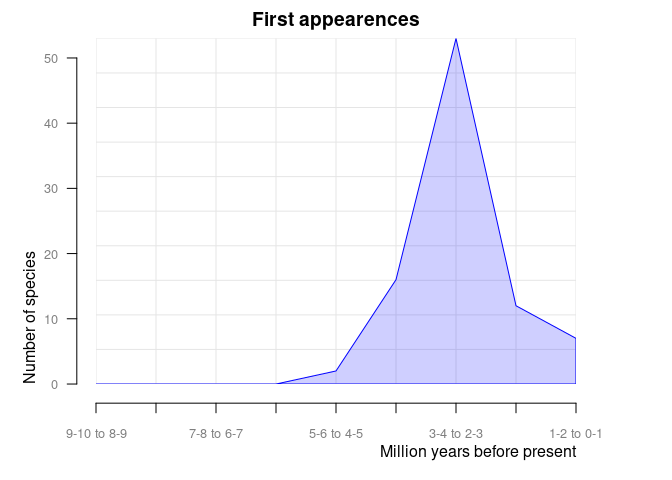
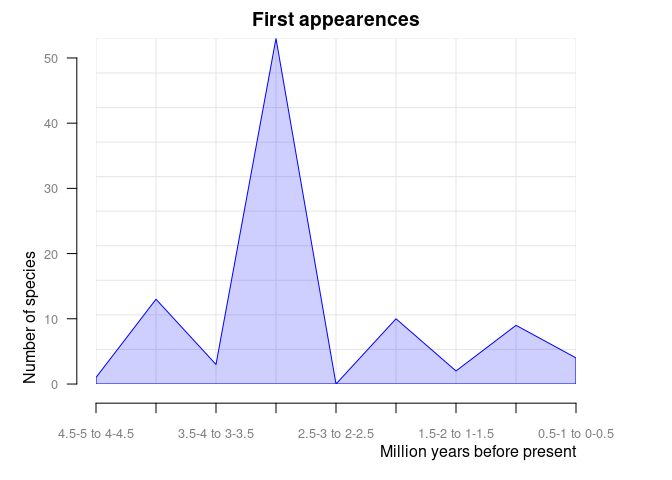
Truncate output in README.md

diff --git a/README.md b/README.md
@@ -46,13 +46,13 @@ library(paleobioDB)
 canidae <- pbdb_occurrences(
   base_name = "canidae",
   interval = "Quaternary",
-  show = c("coords", "classext", "ident"),
+  show = c("coords", "class"),
   vocab = "pbdb",
   limit = "all"
 )
 
 dim(canidae)
-#> [1] 1384   34
+#> [1] 1384   23
 
 head(canidae, 3)
 #>   occurrence_no record_type collection_no   identified_name identified_rank
@@ -67,19 +67,17 @@ head(canidae, 3)
 #> 1 Late Pleistocene  0.781 0.0117         4412  111.5667 22.76667 Chordata
 #> 2             <NA>  1.800 0.3000         2673 -112.4000 35.70000 Chordata
 #> 3             <NA>  1.800 0.3000        52058 -112.4000 35.70000 Chordata
-#>   phylum_no    class class_no     order order_no  family family_no genus
-#> 1     33815 Mammalia    36651 Carnivora    36905 Canidae     41189  Cuon
-#> 2     33815 Mammalia    36651 Carnivora    36905 Canidae     41189 Canis
-#> 3     33815 Mammalia    36651 Carnivora    36905 Canidae     41189 Canis
-#>   genus_no primary_name species_name reid_no species_reso difference
-#> 1    41204         Cuon          sp.    <NA>         <NA>       <NA>
-#> 2    41198        Canis     edwardii    8376         <NA>       <NA>
-#> 3    41198        Canis  armbrusteri   30222         <NA>       <NA>
-#>   primary_reso subgenus_name subgenus_reso
-#> 1         <NA>          <NA>          <NA>
-#> 2         <NA>          <NA>          <NA>
-#> 3         <NA>          <NA>          <NA>
+#>      class     order  family genus reid_no difference
+#> 1 Mammalia Carnivora Canidae  Cuon    <NA>       <NA>
+#> 2 Mammalia Carnivora Canidae Canis    8376       <NA>
+#> 3 Mammalia Carnivora Canidae Canis   30222       <NA>
 ```
+
+Note that if the plotting and analysis functions of this package are
+going to be used (as demonstrated in the sections below), it is
+necessary to specify the parameter `show = c("coords", "class")` in the
+`pbdb_occurrences()` function. This returns taxonomic and geographic
+information for the occurrences that is required by these functions.
 
 ### Caution with the raw data
 
@@ -151,27 +149,32 @@ pbdb_map_richness(canidae, res = 5, rank = "species")
 
 ## Explore your fossil data
 
-### `pbdb_temporal_range`
+### `pbdb_temp_range`
 
 Returns a dataframe and a plot with the time span of the species,
-genera, families, etc. in your query.
+genera, families, etc. in your query. Make sure that enough vertical
+space is provided in the graphics device used to do the plotting if
+there are many taxa of the specified rank in your data set.
 
 ``` r
-tmp_range <- pbdb_temp_range(canidae, rank = "species")
+pbdb_temp_range(canidae, rank = "species")
 ```
 
 ![](man/figures/README-pbdb_temp_range-1.png)<!-- -->
 
-``` r
-head(tmp_range)
-#>                        max   min
-#> Canis lepophagus       4.9 0.012
-#> Canis gezi             4.0 0.781
-#> Canis chihliensis      3.6 0.781
-#> Canis palmidens        3.6 0.781
-#> Eucyon minor           3.6 0.781
-#> Protocyon orocualensis 3.6 0.781
-```
+    #>                             max    min
+    #> Canis lepophagus          4.900 0.0120
+    #> Canis gezi                4.000 0.7810
+    #> Canis chihliensis         3.600 0.7810
+    #> Canis palmidens           3.600 0.7810
+    #> Eucyon minor              3.600 0.7810
+    ....
+    #> Urocyon littoralis        0.300 0.0000
+    #> Pseudalopex sechurae      0.126 0.0117
+    #> Vulpes macrotis           0.126 0.0117
+    #> Cubacyon transversidens   0.126 0.0000
+    #> Lycalopex griseus         0.126 0.0000
+    #> Speothos pacivorus        0.126 0.0000
 
 ### `pbdb_richness`
 
@@ -180,73 +183,74 @@ families, etc.) across time. You should set the temporal extent and the
 temporal resolution for the steps.
 
 ``` r
-pbdb_richness(canidae, rank = "species", temporal_extent = c(0, 10), res = 1)
+pbdb_richness(canidae, rank = "species", temporal_extent = c(0, 5), res = 0.5)
 ```
 
 ![](man/figures/README-pbdb_richness-1.png)<!-- -->
 
     #>    temporal_intervals richness
-    #> 1                 0-1       93
-    #> 2                 1-2       83
-    #> 3                 2-3       71
-    #> 4                 3-4       18
-    #> 5                 4-5        1
-    #> 6                 5-6        0
-    #> 7                 6-7        0
-    #> 8                 7-8        0
-    #> 9                 8-9        0
-    #> 10               9-10        0
+    #> 1               0-0.5       74
+    #> 2               0.5-1       87
+    #> 3               1-1.5       78
+    #> 4               1.5-2       81
+    #> 5               2-2.5       71
+    #> 6               2.5-3       71
+    #> 7               3-3.5       18
+    #> 8               3.5-4       15
+    #> 9               4-4.5        1
+    #> 10              4.5-5        1
 
 ### `pbdb_orig_ext`
 
 Returns a dataframe and a plot with the number of new appearances and
 last appearances of species, genera, families, etc. in your query across
-the time. You should set the temporal extent and the resolution of the
-steps. `orig_ext = 1` plots new appearances, `orig_ext = 2` plots last
-appearances in the provided data (possibly extinctions, if the data are
-complete enough).
+time. You should set the temporal extent and the resolution of the
+steps. `orig_ext = 1` plots new appearances:
 
 ``` r
 pbdb_orig_ext(
   canidae,
   rank = "species",
-  orig_ext = 1, temporal_extent = c(0, 10), res = 1
+  orig_ext = 1, temporal_extent = c(0, 5), res = 0.5
 )
 ```
 
 ![](man/figures/README-pbdb_orig_ext_1-1.png)<!-- -->
 
-    #>             new ext
-    #> 1-2 to 0-1    7   5
-    #> 2-3 to 1-2   12   0
-    #> 3-4 to 2-3   53   0
-    #> 4-5 to 3-4   16   0
-    #> 5-6 to 4-5    2   0
-    #> 6-7 to 5-6    0   0
-    #> 7-8 to 6-7    0   0
-    #> 8-9 to 7-8    0   0
-    #> 9-10 to 8-9   0   0
+    #>                new ext
+    #> 0.5-1 to 0-0.5   4  19
+    #> 1-1.5 to 0.5-1   9   0
+    #> 1.5-2 to 1-1.5   2   5
+    #> 2-2.5 to 1.5-2  10   0
+    #> 2.5-3 to 2-2.5   0   0
+    #> 3-3.5 to 2.5-3  53   0
+    #> 3.5-4 to 3-3.5   3   0
+    #> 4-4.5 to 3.5-4  13   0
+    #> 4.5-5 to 4-4.5   1   0
+
+And `orig_ext = 2` plots last appearances in the provided dataframe
+(possibly extinctions, if the data are complete enough).
 
 ``` r
 pbdb_orig_ext(
   canidae,
   rank = "species",
-  orig_ext = 2, temporal_extent = c(0, 10), res = 1
+  orig_ext = 2, temporal_extent = c(0, 5), res = 0.5
 )
 ```
 
 ![](man/figures/README-pbdb_orig_ext_2-1.png)<!-- -->
 
-    #>             new ext
-    #> 1-2 to 0-1    7   5
-    #> 2-3 to 1-2   12   0
-    #> 3-4 to 2-3   53   0
-    #> 4-5 to 3-4   16   0
-    #> 5-6 to 4-5    2   0
-    #> 6-7 to 5-6    0   0
-    #> 7-8 to 6-7    0   0
-    #> 8-9 to 7-8    0   0
-    #> 9-10 to 8-9   0   0
+    #>                new ext
+    #> 0.5-1 to 0-0.5   4  19
+    #> 1-1.5 to 0.5-1   9   0
+    #> 1.5-2 to 1-1.5   2   5
+    #> 2-2.5 to 1.5-2  10   0
+    #> 2.5-3 to 2-2.5   0   0
+    #> 3-3.5 to 2.5-3  53   0
+    #> 3.5-4 to 3-3.5   3   0
+    #> 4-4.5 to 3.5-4  13   0
+    #> 4.5-5 to 4-4.5   1   0
 
 ## `pbdb_subtaxa`
 
@@ -264,16 +268,28 @@ pbdb_subtaxa(canidae, do.plot = TRUE)
 
 ## `pbdb_temporal_resolution`
 
-Returns a plot and a dataframe with a main summary of the temporal
-resolution of the fossil records.
-
-<!-- TODO: truncate output -->
+Returns a plot and a list with a summary of the temporal resolution of
+the fossil records.
 
 ``` r
 pbdb_temporal_resolution(canidae)
 ```
 
 ![](man/figures/README-pbdb_temporal_resolution-1.png)<!-- -->
+
+    #> $summary
+    #>    Min. 1st Qu.  Median    Mean 3rd Qu.    Max. 
+    #>  0.0117  0.1143  0.6550  0.9617  1.8070  4.8880 
+    #> 
+    #> $temporal_resolution
+    #>    [1] 0.7693 1.5000 1.5000 1.5000 0.7820 0.7820 0.7820 0.7820 1.5000 1.5000
+    ....
+    #> [1331] 1.8070 1.8070 1.8070 1.8070 1.8070 2.8190 2.8190 2.8190 2.8190 2.8190
+    #> [1341] 0.1260 2.5763 1.8070 0.4190 0.4190 0.4190 0.4190 0.4190 3.2190 0.7690
+    #> [1351] 0.0117 0.0117 0.0117 2.5880 2.5763 2.5763 0.7690 0.7690 0.7690 0.1143
+    #> [1361] 0.4190 0.1143 0.7690 2.5763 0.1143 0.7690 0.1143 2.5763 0.7690 0.6550
+    #> [1371] 0.6550 1.8070 2.8190 1.5000 2.5763 2.5763 2.5763 0.1143 2.5763 2.5763
+    #> [1381] 2.5763 2.5763 0.0117 0.0117
 
 ## Docker
 
@@ -340,8 +356,6 @@ Please report any [issues or
 bugs](https://github.com/ropensci/paleobioDB/issues).
 
 License: GPL-2
-
-To cite package `paleobioDB` in publications use:
 
     #> To cite package 'paleobioDB' in publications use:
     #> 
